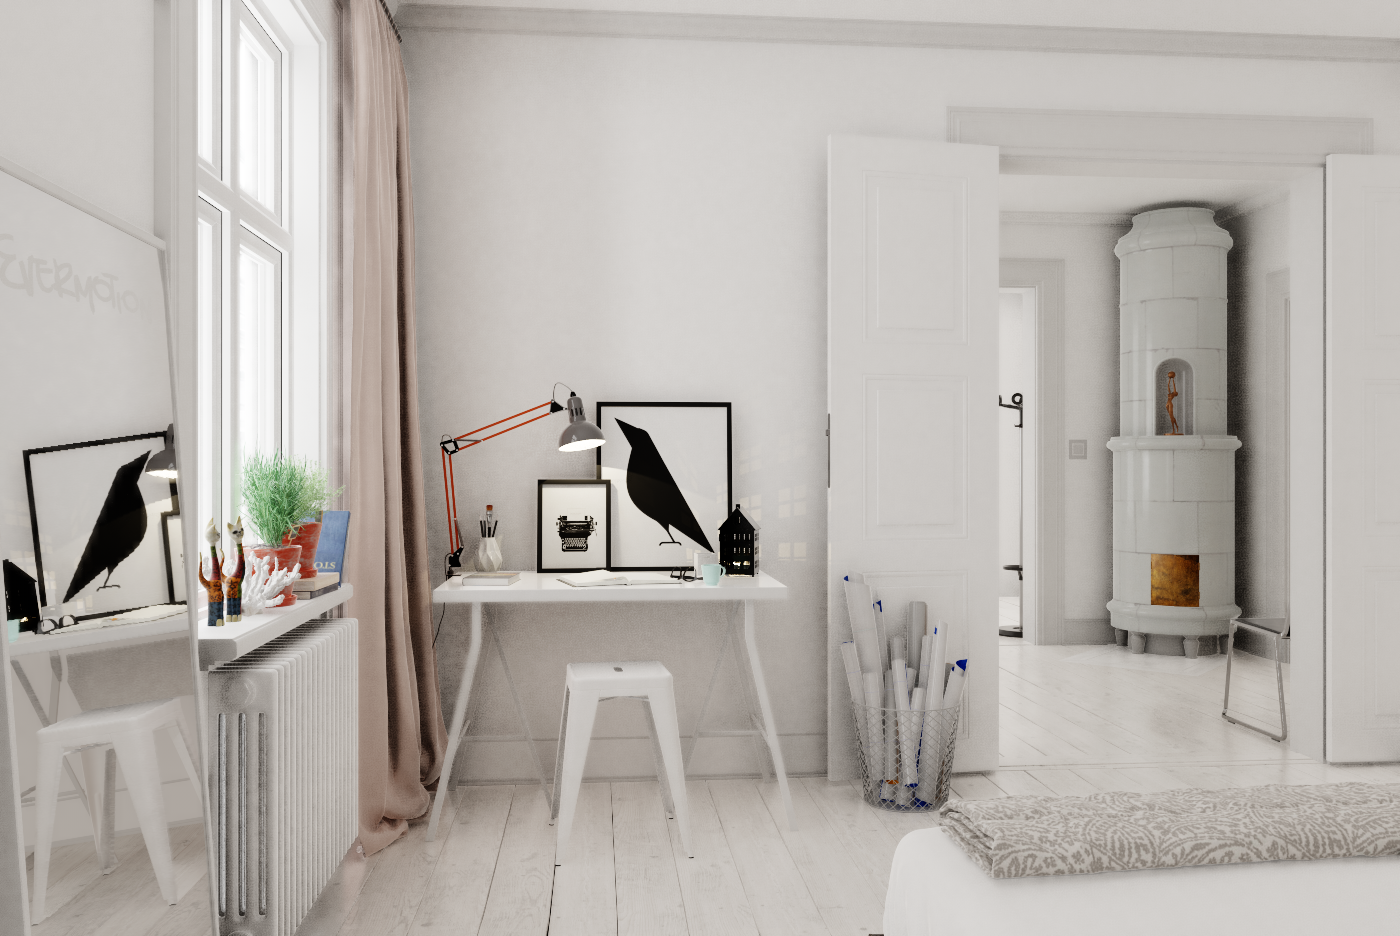
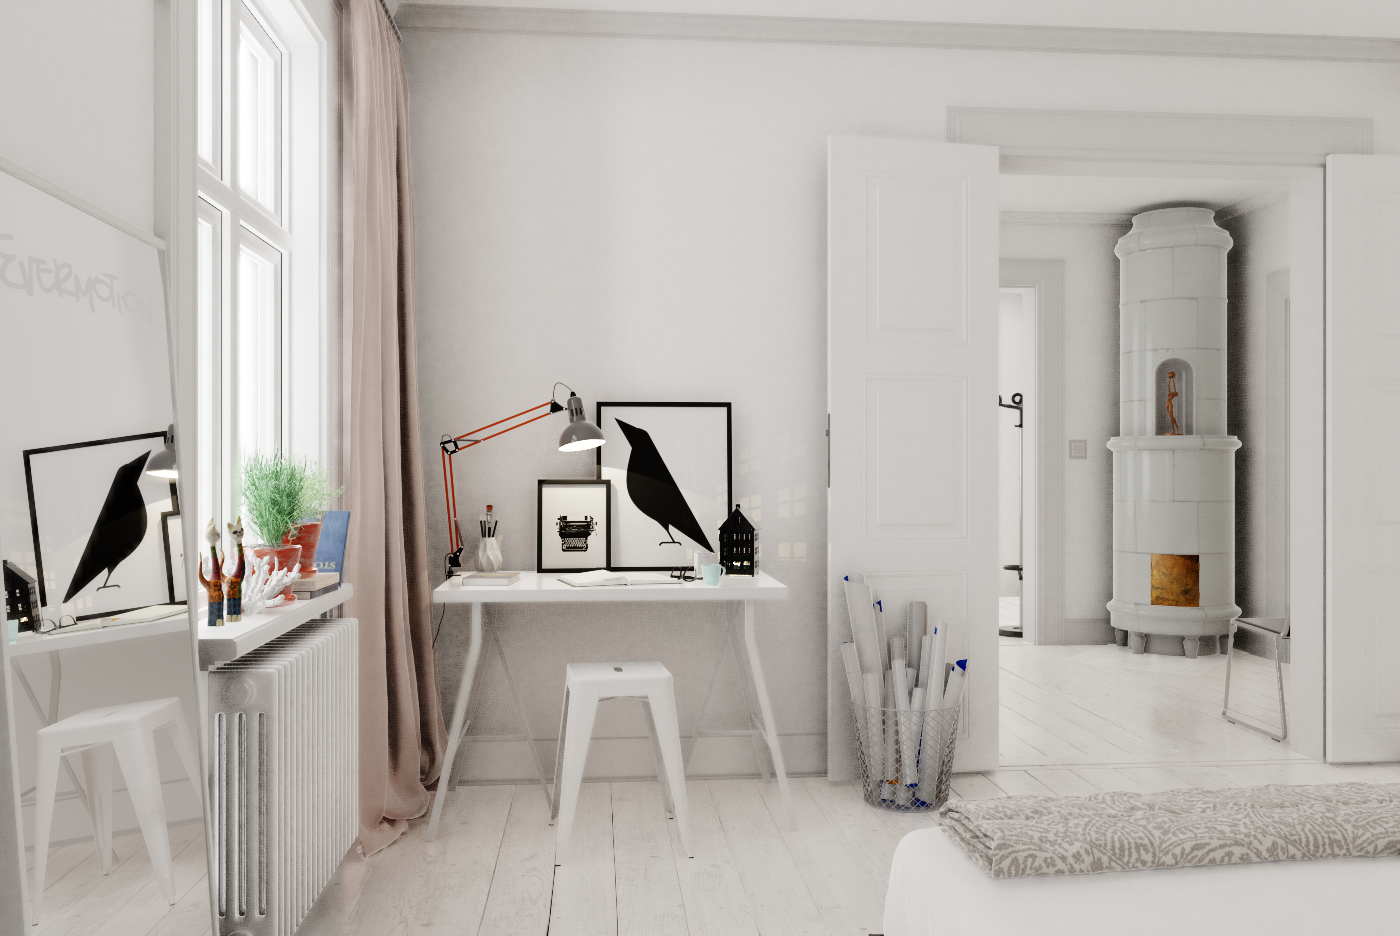
Increase reflections quality in captures

diff --git a/src/DummyLib/States/GSBaseState.cpp b/src/DummyLib/States/GSBaseState.cpp
@@ -667,6 +667,7 @@ void GSBaseState::Draw() {
             main_view_lists_[1].Clear();
             random_->Reset(0);
             renderer_->settings.taa_mode = Eng::eTAAMode::Static;
+            renderer_->settings.reflections_quality = Eng::eReflectionsQuality::Raytraced_High;
             main_view_lists_[0].render_settings = renderer_->settings;
             renderer_->reset_accumulation();
         }
